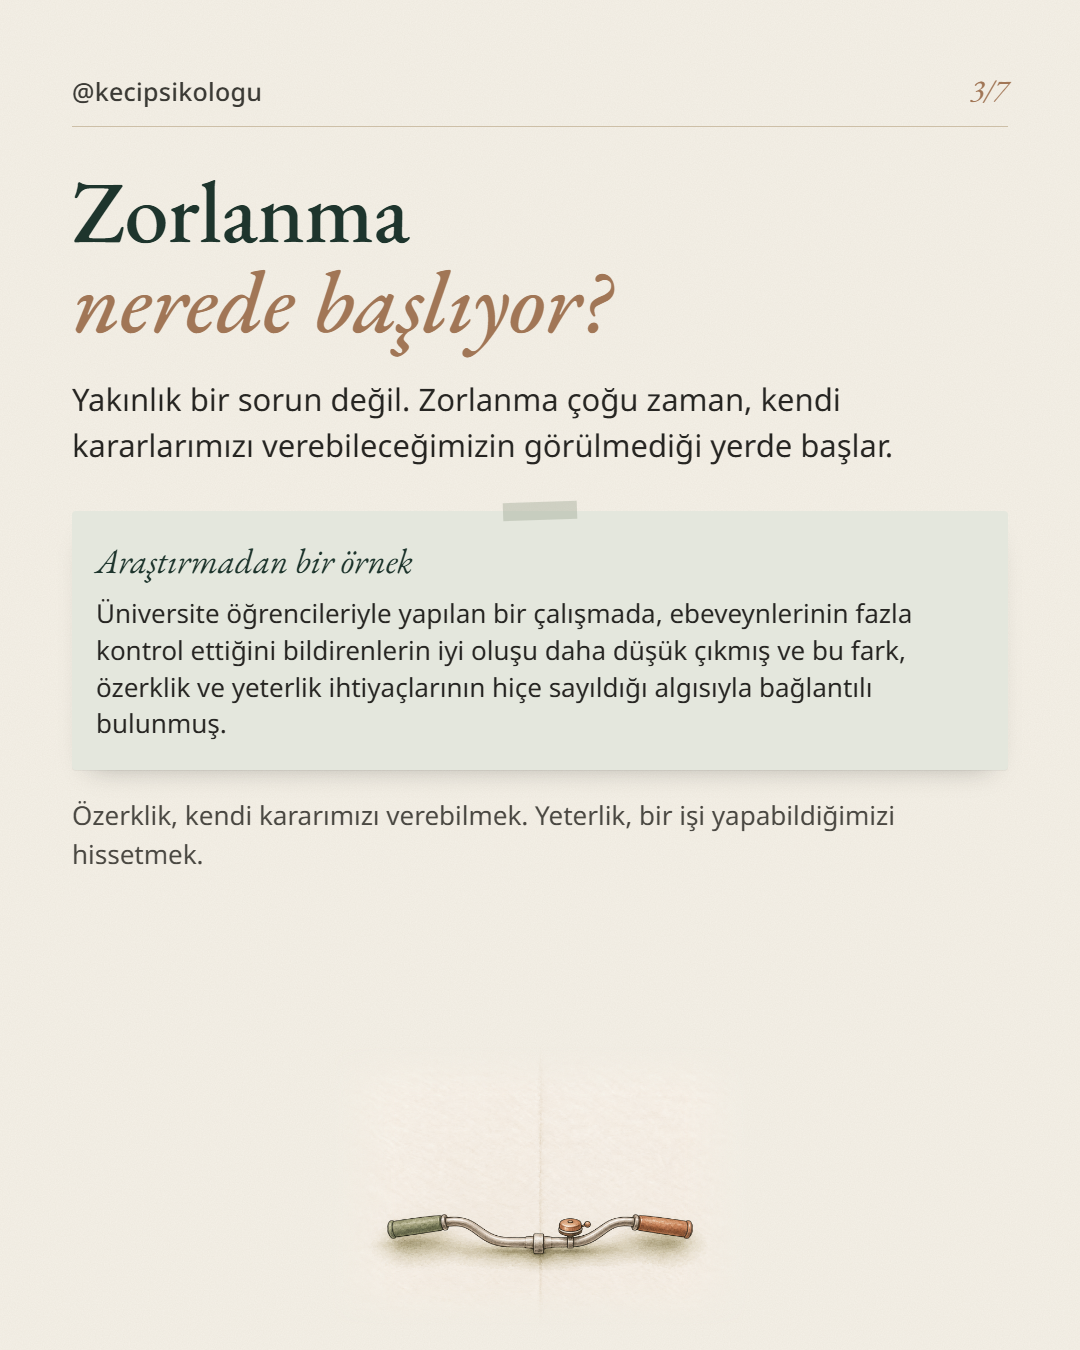
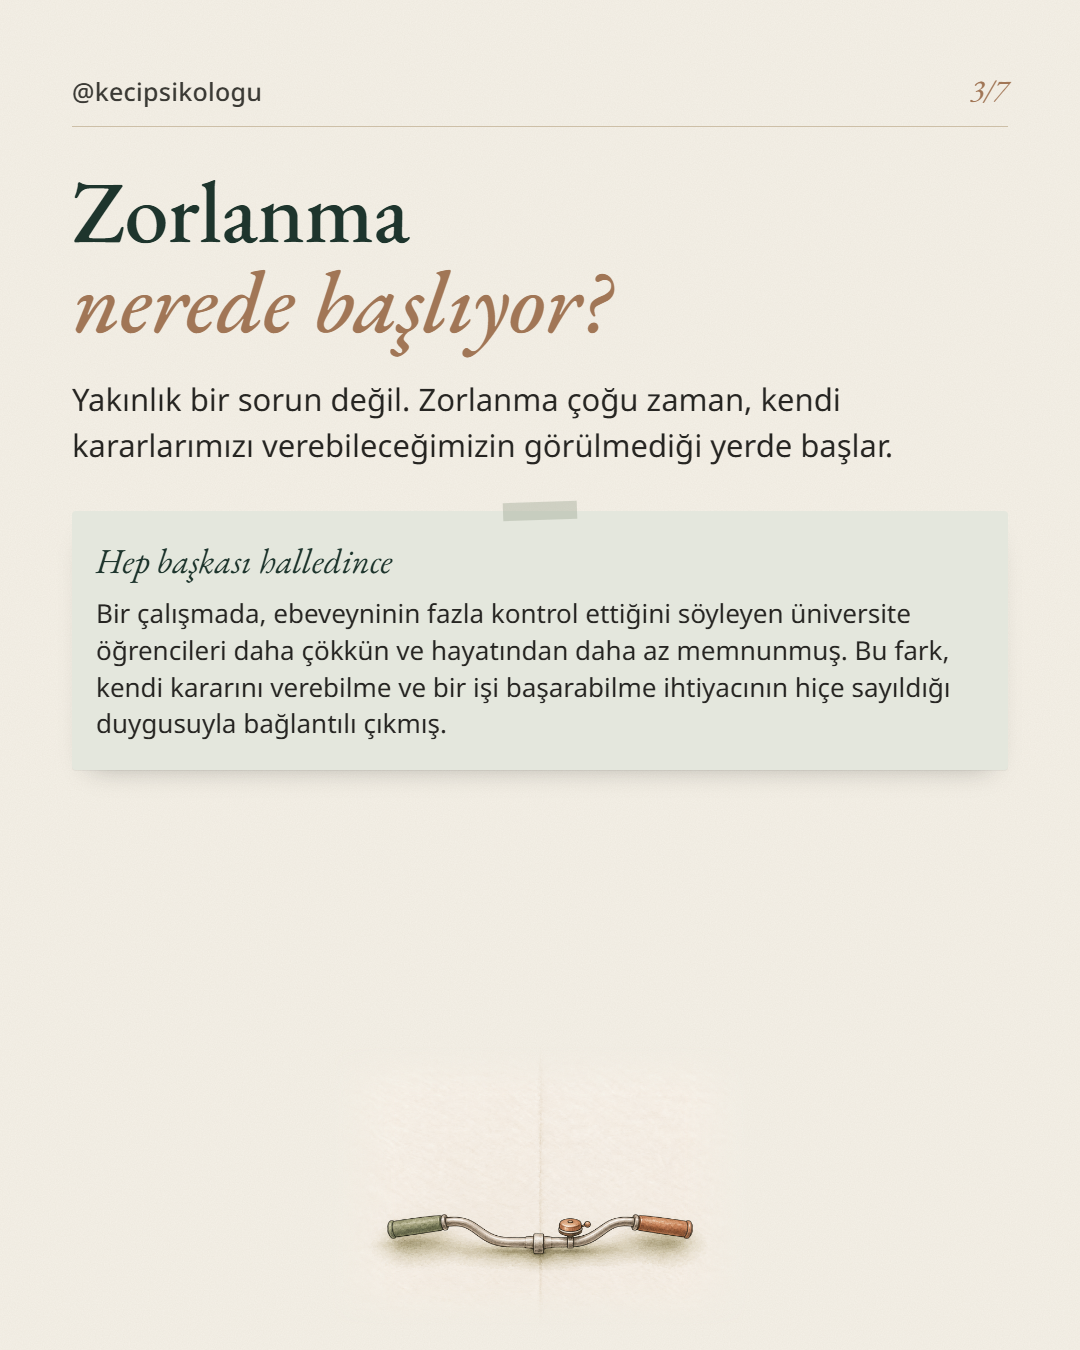
fix(posts): 20 Oct voice rewrite, research sentences in operator voice
Claude-Session: https://claude.ai/code/session_01YRjYDNXAqdazCHQBaajULc

Changed region(s): [[0.0917, 0.4044, 0.8861, 0.56], [0.0611, 0.5911, 0.825, 0.6533]]

diff --git a/posts/2026-10-20-cocuk-muamelesi/caption.md b/posts/2026-10-20-cocuk-muamelesi/caption.md
@@ -1,8 +1,8 @@
 Ailemize yakın kalmayı da, kendi kararlarımızı vermeyi de isteyebiliriz.
 
-Sınır koymak bazı ailelerde güvenli olmayabilir. Öyleyse önce bir uzmanla konuşmak iyi bir başlangıç olabilir. Tehdit, baskı, paranızın ya da hareket özgürlüğünüzün zorla kısıtlanması aile içinde de olsa ilgi değildir.
+"Ben hallederim" cümlesinin altında bazen bir endişe yatar. Yıllarca bizi korumuş biri, ne zaman geri çekileceğini kendiliğinden bilemeyebilir. Bunu ona sakin bir sesle, adım adım göstermek de büyümenin bir parçası.
 
-Bu konuyu bir uzmanla birlikte ele almak isterseniz, psikolojik danışmanlık hizmeti için profildeki bağlantıdan ulaşabilirsiniz. Ön görüşme formu onourimpram.com adresinde.
+Bu dengeyi bir uzmanla birlikte kurmak isterseniz, psikolojik danışmanlık hizmeti için profildeki bağlantıdan ulaşabilirsiniz. Ön görüşme formu onourimpram.com adresinde.
 
 Kaynaklar:
 Journal of Marriage and the Family (1996): https://doi.org/10.2307/353507
